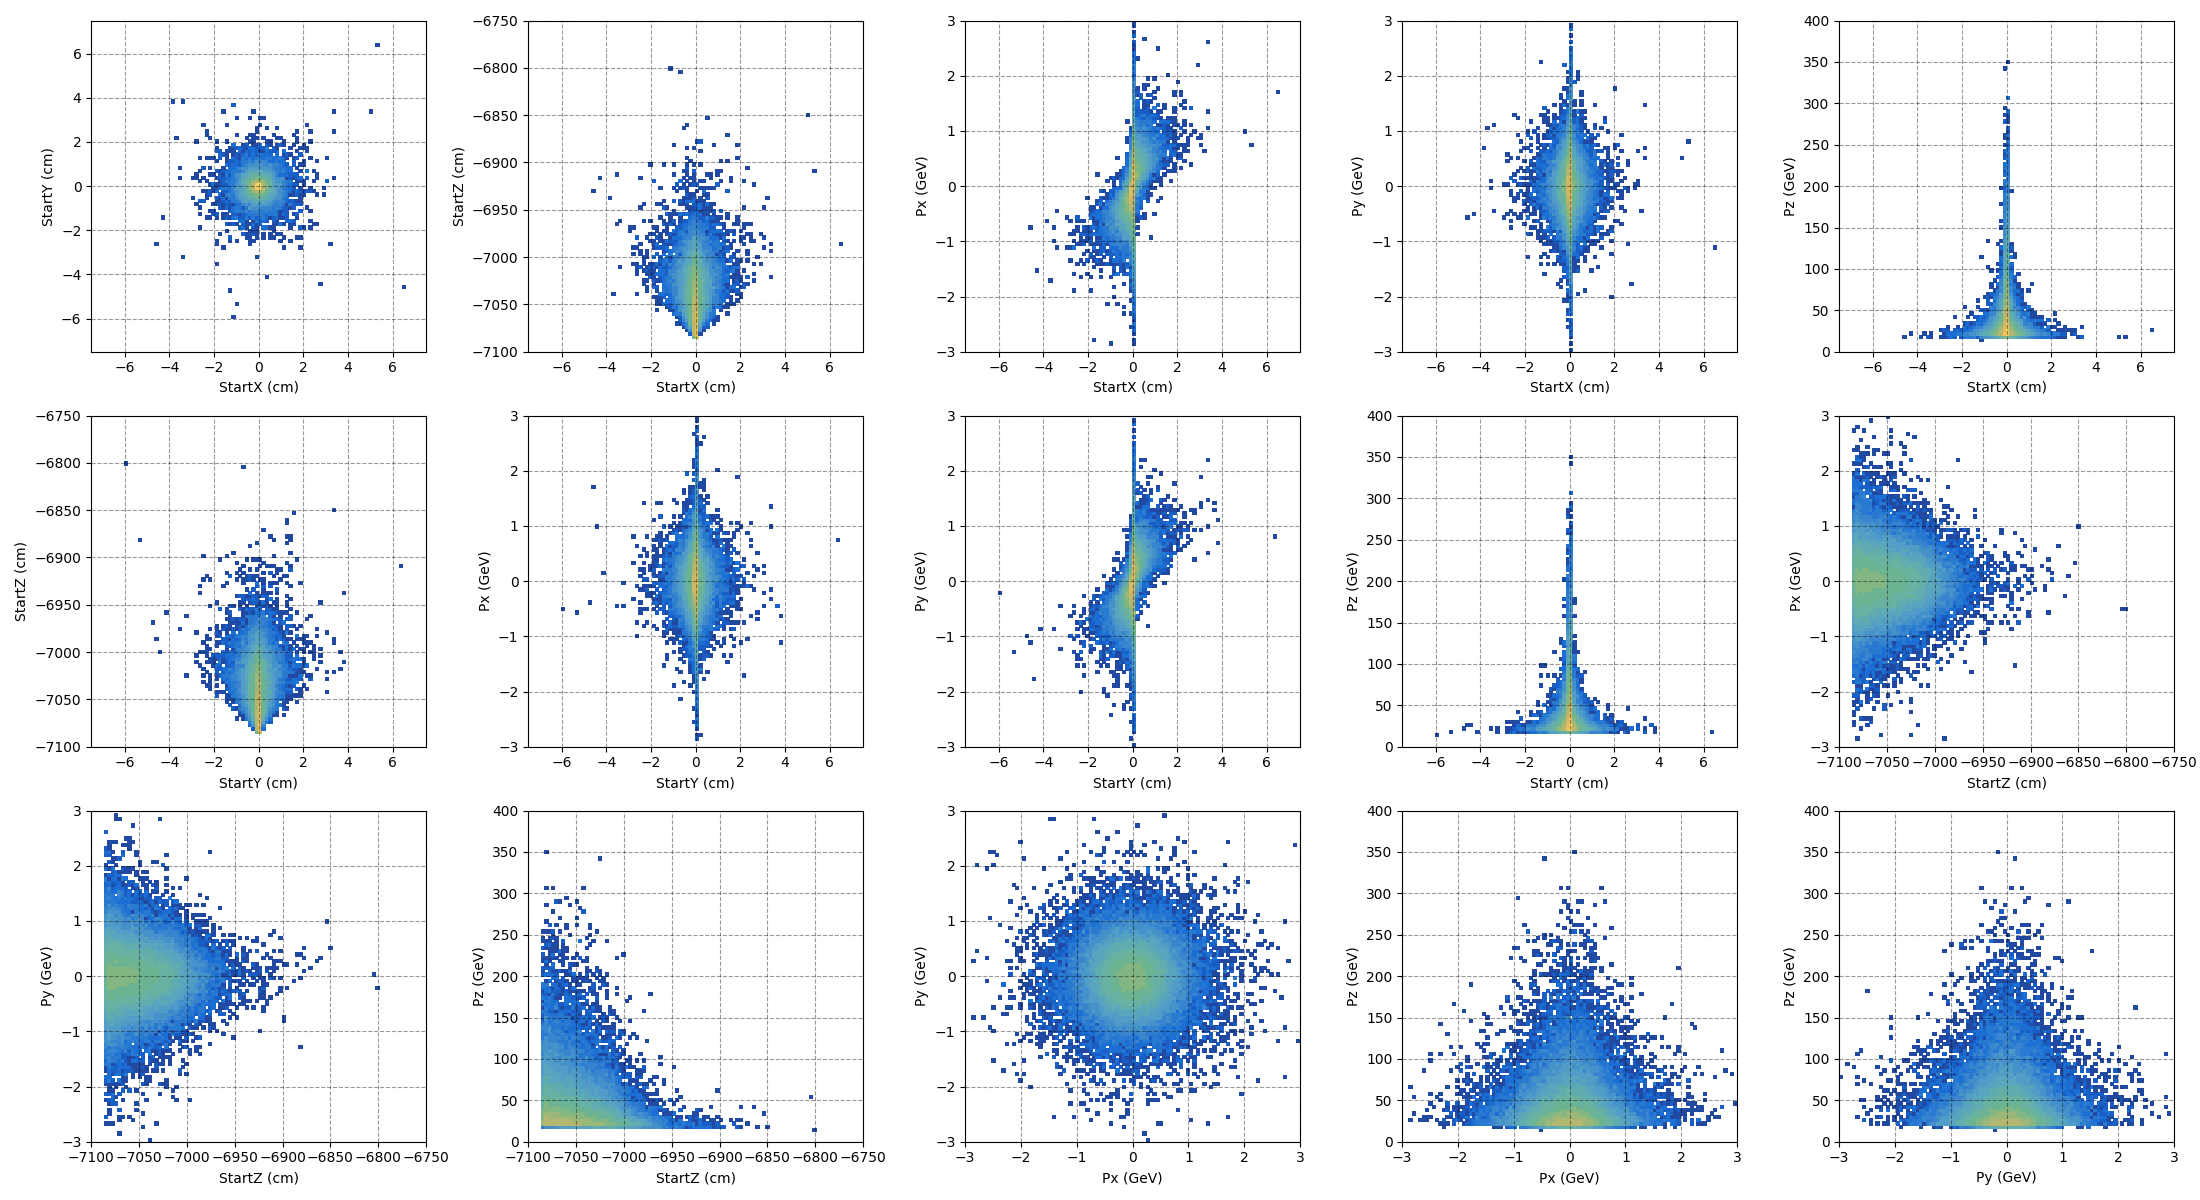
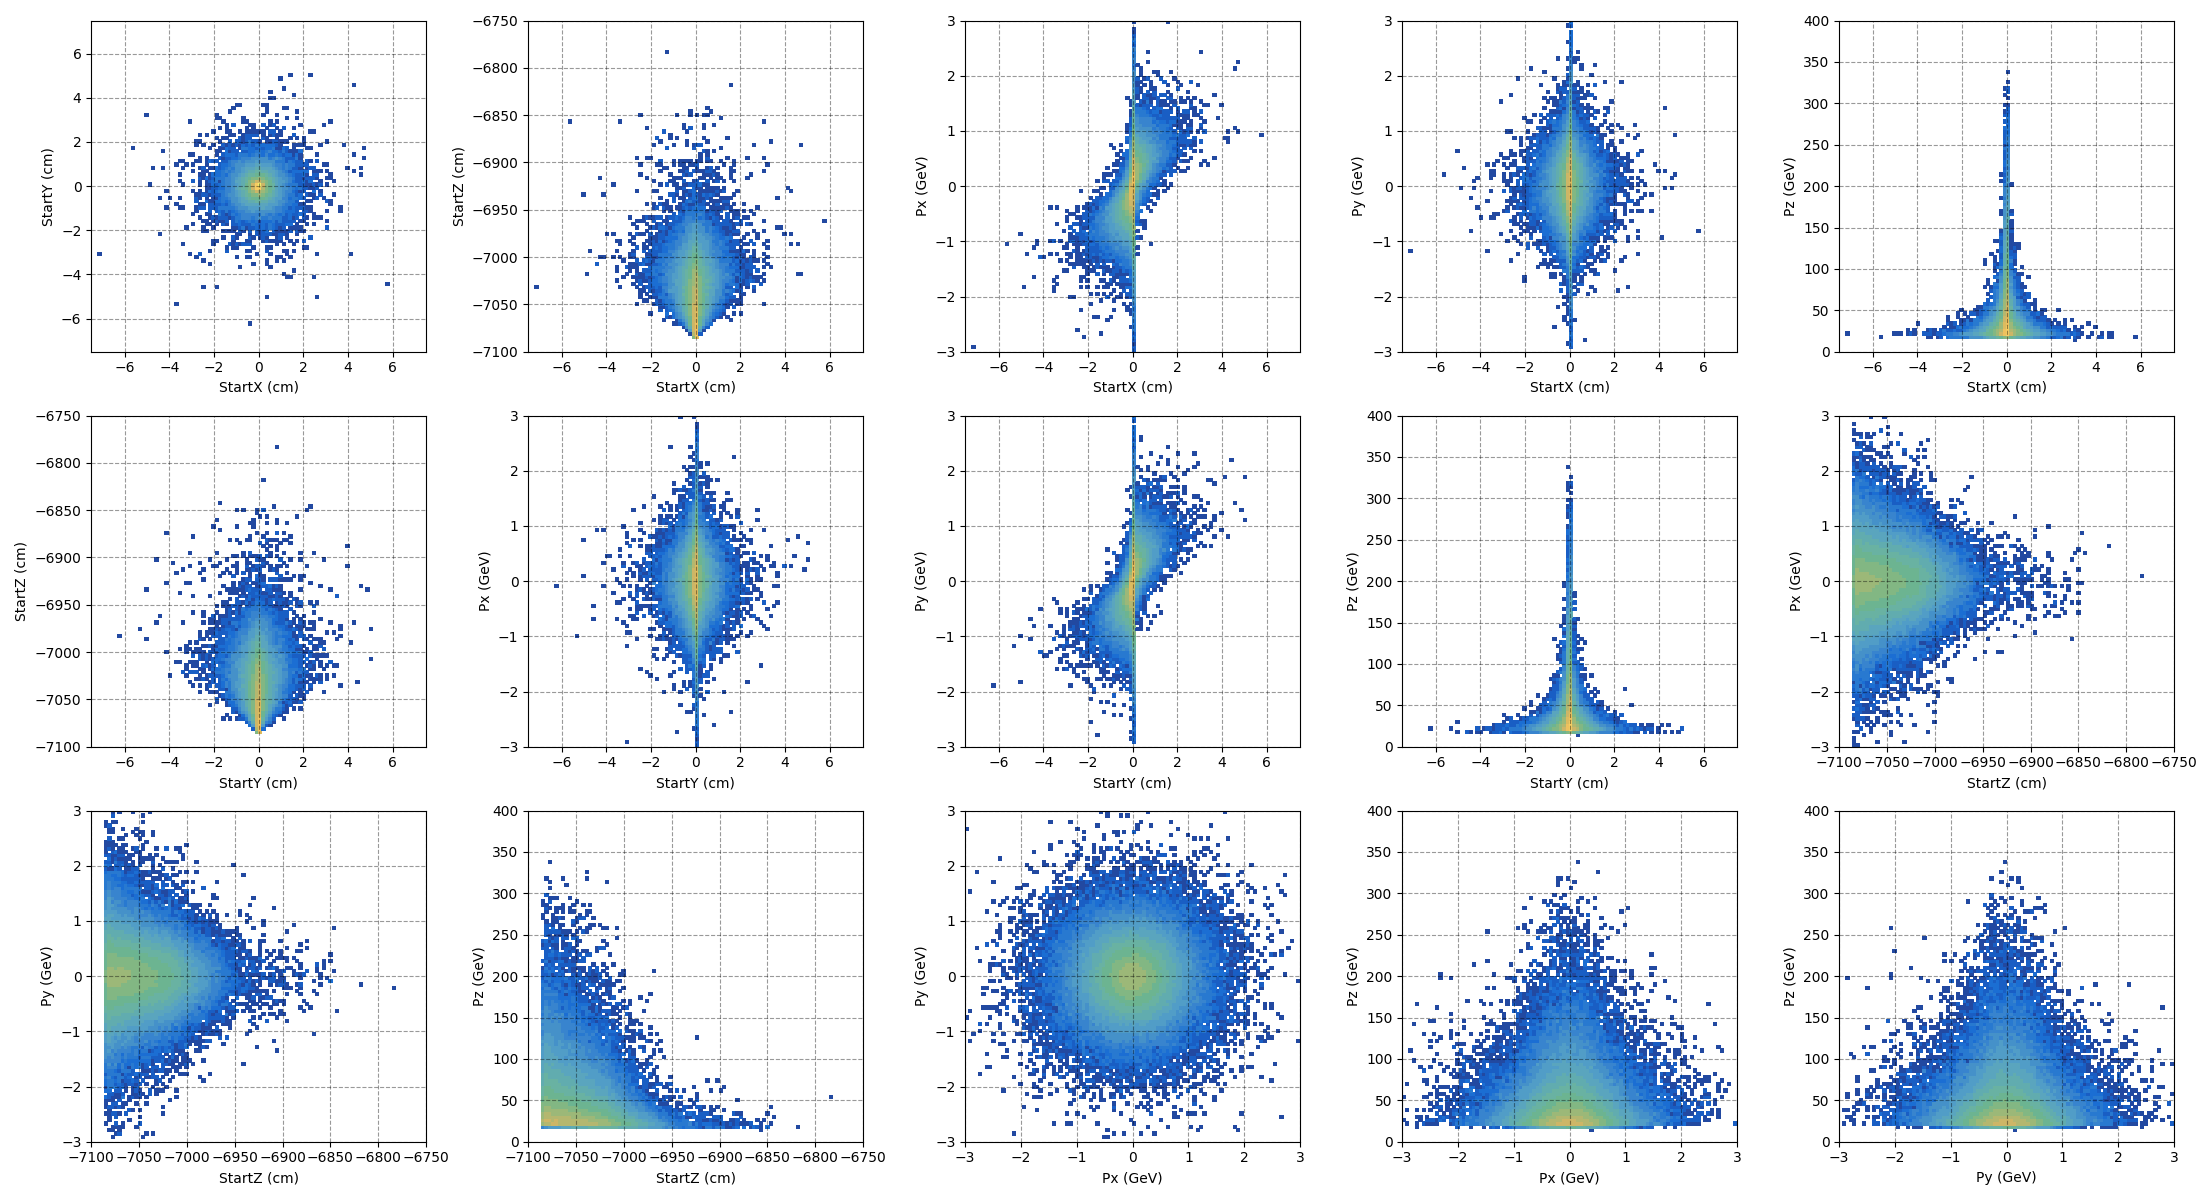
moulding correlations in pt vs p in tuned

diff --git a/SHiP_GAN_module/muGAN.py b/SHiP_GAN_module/muGAN.py
@@ -160,18 +160,29 @@ class muGAN:
 			aux_values[:,i] = np.take(aux_values[:,i],np.random.permutation(aux_values[:,i].shape[0]),axis=0,out=aux_values[:,i])
 		
 
+
+		# Moulding some correlations in the PT vs P plane:
+
 		from scipy.linalg import cholesky
 
 		r = np.array([
 				        [ 1,  0,  0,  0],
 				        [ 0,  1,  0,  0],
 				        [ 0,  0,  1,  0],
-				        [ 0,  0,  0.1,  1]
+				        [ 0,  0,  0.5,  1]
 				    ])
 		c = cholesky(r, lower=True)
-
-
 		aux_values[np.where(aux_values[:,2]>2)][:int((np.shape(np.where(aux_values[:,2]>2))[0]*0.5))] = np.swapaxes(np.dot(c, np.swapaxes(aux_values[np.where(aux_values[:,2]>2)][:int((np.shape(np.where(aux_values[:,2]>2))[0]*0.5))],0,1)),0,1)
+
+
+		r = np.array([
+				        [ 1,  0,  0,  0],
+				        [ 0,  1,  0,  0],
+				        [ 0,  0,  1,  0],
+				        [ 0,  0,  -0.7,  1]
+				    ])
+		c = cholesky(r, lower=True)
+		aux_values[np.where(aux_values[:,3]>2.5)][:int((np.shape(np.where(aux_values[:,3]>2.5))[0]*0.8))] = np.swapaxes(np.dot(c, np.swapaxes(aux_values[np.where(aux_values[:,3]>2.5)][:int((np.shape(np.where(aux_values[:,3]>2.5))[0]*0.8))],0,1)),0,1)
 
 		return aux_values
 

diff --git a/Tune_auxiliary_inputs.py b/Tune_auxiliary_inputs.py
@@ -32,19 +32,20 @@ initial_values = np.empty((4,7))
 
 initial_values[0] = [ 1, 0.1, 0.8, 0, 0, 0, 0] # x y
 initial_values[1] = [ 0, 0, 0, 0.0005, 1.2, 1E-3, 0.27] # z 
-initial_values[2] = [ 0, 0, 0, 0.005, 1.3, 1E-3, 0.12] # px py
-initial_values[3] = [ 0, 0, 0, 0.003, 1.1, 0, 0.2] # pz
+initial_values[2] = [ 0, 0, 0, 0.01, 1.3, 6E-3, 0.12] # px py
+# initial_values[3] = [ 0, 0, 0, 0.003, 1.1, 0, 0.2] # pz
+initial_values[3] = [ 0, 0, 0, 0.5, 0.8, 0, 0.2] # pz
 
 # np.save('SHiP_GAN_module/data_files/tuned_aux_parameters.npy',initial_values)
 # quit()
 
 
-# muGAN.tune(size=int(1E5), initial_values=initial_values, 
+# muGAN.tune(size=int(3E5), initial_values=initial_values, 
 # 	output_folder='Tuning_results',
 # 	training_data_location='/Users/am13743/Desktop/Data_for_GAN_paper_plots/real_data.npy')
 
 
-muGAN.tune(size=int(1E6), initial_values=initial_values, 
+muGAN.tune(size=int(1E7), initial_values=initial_values, 
 	output_folder='Tuning_results',
 	training_data_location='/mnt/storage/scratch/am13743/real_data.npy')
 
